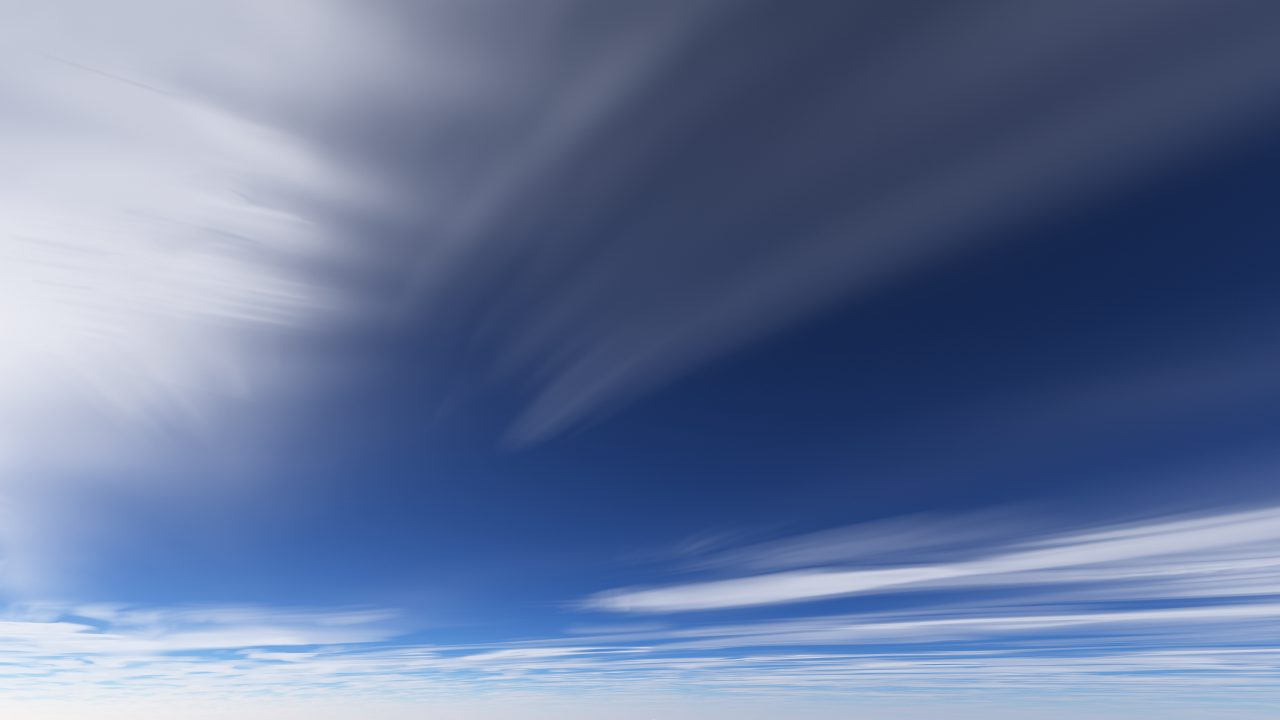
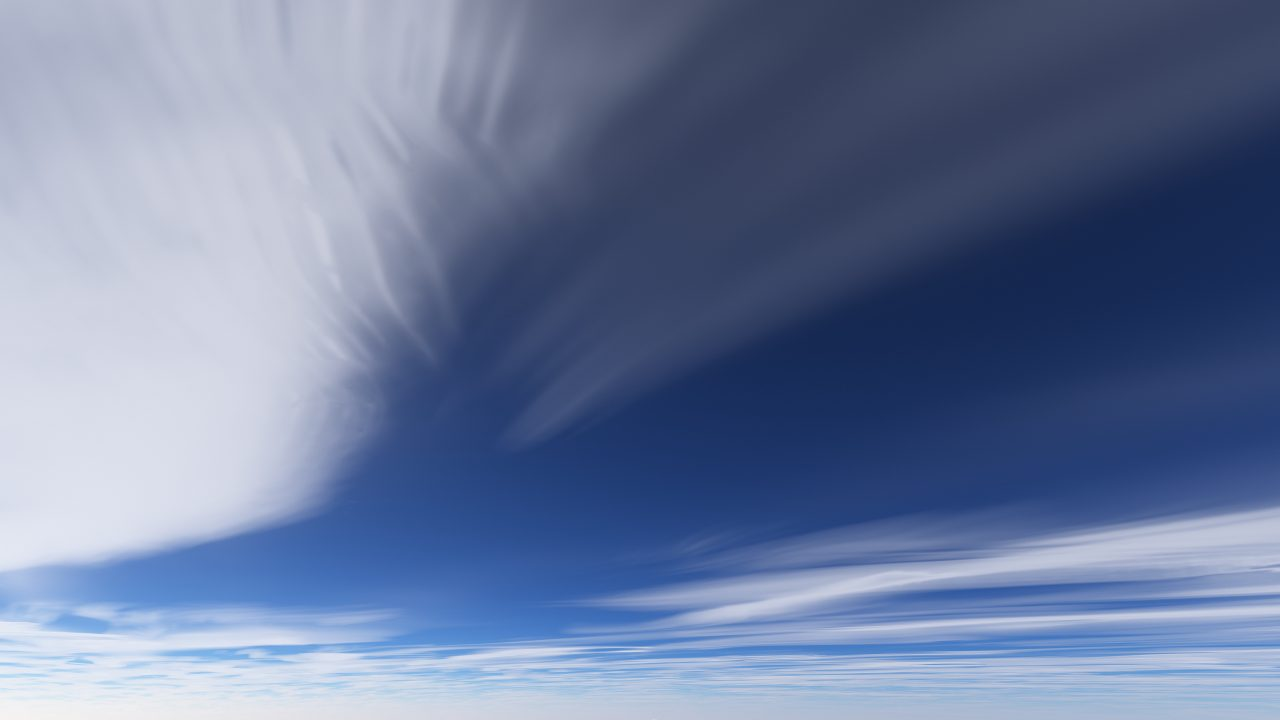
Cirrus round 18: a low sun's light through the sheet, one-way hooks, no edge dashes
- A low sun (from some 30 degrees down, a smoothstep of 1 / sin of its
  height) lights the ice through the depth on its way in, read over
  0.45 km a unit of that towards the sun (tauP), for the light scattered
  once and the share scattered many times, which then goes about evenly.
  Read through the local column, only the dense cores were lit by the
  light scattered many times (it grew as the cube of the depth), and dusk
  was a field of bright dashes and hooked heads.
- A tail's hook turns the same way as the tail, and no tighter than 2.5
  widths of the tail: S-shaped folds and liquid curls in wide plumes
  (c5, k3, m3, c3) are gone.
- The hairs shape the depth after the floor: before it, their cores alone
  passed it at a thin edge and stood as short bright dashes.
- Strands in a tail's core are 0.4 as strong as at its edges (ropes when
  looking up).
- Little cirrus is more large systems and fewer tails (fewer small
  spindles).
- cirrusDepth is one loop over the decks and takes a footprint; the
  sunward read uses it.
- docs: design.md (hooks, fibres, hairs, kinds, low sun), development.md
  (cost), the five docs pictures with cirrus.

Claude-Session: https://claude.ai/code/session_0164gFYhFQTZWxi11WF846xx

diff --git a/index.html b/index.html
@@ -878,7 +878,10 @@ float iceSystems(vec2 w, vec2 cells, vec2 len, vec2 wid, float head, float heads
     float veer = clamp(2.0 * bend + 0.8 * (r3.z - 0.5), -1.0, 1.0) * min(1.4 * C.y / L, 1.8) * (feather ? 0.4 : 1.0);
     // (A feather has no hook and turns less: its barbs reach far across,
     // and near the centre of a tight turn they were cut, as U-shaped holes.)
-    float hook = (fan ? 0.3 : feather ? 0.0 : 0.4 + 0.8 * sz) * (2.0 * r3.w - 1.0);
+    // The hook turns the same way as the tail (a fall streak curves one
+    // way, as the shear below it turns): hooked the other way, tails stood
+    // as S-shaped folds.
+    float hook = (fan ? 0.3 : feather ? 0.0 : 0.4 + 0.8 * sz) * (0.4 + 0.6 * r3.w) * (veer > 0.0 ? -1.0 : 1.0);
     float str = 0.5 * (0.25 + r2.y * r2.y) * (0.5 + 0.7 * smoothstep(gate.x, gate.y + 0.4, group));
     // The heads of the system along its spine.
     float nh = 1.0 + floor(r4.y * heads);
@@ -901,12 +904,17 @@ float iceSystems(vec2 w, vec2 cells, vec2 len, vec2 wid, float head, float heads
       float w1 = Lj * mix(wid.x, wid.y, r4.x) * (fan ? 2.0 : 1.0), w0 = (feather ? 1.0 : 0.4) * rj0;
       // (A feather is wider, but stays within the cells searched.)
       if (feather) w1 = min(1.6 * w1, 0.18 * C.y);
+      // The hook turns no tighter than some 2.5 widths of the tail where it
+      // ends: tighter, the outer strands on its inside folded back over
+      // the head (a liquid curl in wide plumes).
+      float hk = hook * (j == 0 ? 1.0 : 0.6 + 0.6 * rj.x), hkMax = lh / (2.5 * (w0 + (w1 - w0) * pow(min(lh / Lj, 1.0), 0.8)));
+      hk = clamp(hk, -hkMax, hkMax);
       // Quick reject: farther than the tail can reach (5 of its widths, 7 for
       // a feather, at 1.4 times its mean width: cut nearer, it drew a hard
       // curved line with a string of beads seen from just under the deck).
       float reach = Lj + lh + (feather ? 10.0 : 7.0) * (w1 + rj0);
       if (dot(dl, dl) > reach * reach) continue;
-      vec3 t = iceTailNear(w, hj, th + (j == 0 ? 0.0 : 0.15 * (rj.w - 0.5)), hook * (j == 0 ? 1.0 : 0.6 + 0.6 * rj.x), lh, veer, Lj);
+      vec3 t = iceTailNear(w, hj, th + (j == 0 ? 0.0 : 0.15 * (rj.w - 0.5)), hk, lh, veer, Lj);
       float T = t.x / Lj;
       // (None near the centre of a tight turn, where the nearest point of
       // the tail jumps: from just under the deck, a large system drew a hard
@@ -974,7 +982,10 @@ float iceSystems(vec2 w, vec2 cells, vec2 len, vec2 wid, float head, float heads
       // (The strands are a texture on the body, as strong as the tail is
       // fibrous there: everywhere at their full strength (round 16), the
       // forms were crisp lines with blue between.)
-      float fib = mix(1.0, st.x / 0.42, (0.3 + 0.55 * fcl) * (0.85 + 0.15 * smoothstep(0.5, 1.8, abs(u))));
+      // (Fainter in the core, under half a width: a dense tail is a soft
+      // bright body whose fibres show at its thin edges; as strong in the
+      // core, its strands stood as a braided rope seen from below.)
+      float fib = mix(1.0, st.x / 0.42, (0.3 + 0.55 * fcl) * (0.4 + 0.6 * smoothstep(0.3, 1.6, abs(u))));
       // Before the head the strands stick out each by its own way (the
       // front of a tuft is ragged, not round).
       float fr = iceValue(vec2(3.0 * u + 7.0 * rj.x, 1.5), seed + 115u);
@@ -2386,6 +2397,10 @@ const float CI_ROLL = 1.8;                 // the light scattered forward rolls 
 // clouds) shows through by that share as well, softened; a point (the
 // sun, the moon, a star) is spread into the glow round it instead.
 const float CI_FWD = 0.4;
+// The way a low sun's light runs through the shell to reach the ice (km
+// a unit of 1 / sin of its height), how wide that read is, and the phase of
+// the light that has spread through the sheet (see highCloud).
+const float CI_PATH = 0.45, CI_PATHW = 0.3, CI_DIFF = 0.08;
 // The ice (uIce, built at start by the ice shader): a tile of ICE_KM
 // (40.5 km) of four fields of ice, R: heads with tails, G: sheets and
 // streets, B: flocks, A: large systems. Each deck reads it in a frame of
@@ -2690,9 +2705,13 @@ vec2 ciFieldsOut = vec2(0.0);
 
 // The weights of the ice's four kinds (see ciDensity), by the bands and
 // fields, the shares of sheets (sr) and of flocks (sf), and how banded the
-// cirrus is.
+// cirrus is. Little cirrus (under 0.45) is more of the large systems and
+// fewer tails: a few large sweeps, as photographs of thin cirrus show;
+// with the tails' full weight, their dense cores alone passed the floor
+// (see ciDensity) and stood as many small spindles with sharp ends.
 vec4 ciKinds(float fields, float spread, float sr, float sf, float banded) {
-  return vec4((1.0 - 0.5 * sr) * mix(0.15 + 1.1 * spread, 0.05 + 0.75 * max(fields, 0.7 * spread), banded),
+  float few = 1.0 - smoothstep(0.1, 0.45, uCirrus);
+  return vec4(1.0 - 0.55 * few, 1.0, 1.0, 1.0 + 0.8 * few) * vec4((1.0 - 0.5 * sr) * mix(0.15 + 1.1 * spread, 0.05 + 0.75 * max(fields, 0.7 * spread), banded),
               (0.25 + 0.9 * sr) * smoothstep(0.15, 0.65, uCirrus) * mix(1.0, 0.4 + 0.8 * fields, banded), 0.5 * sf,
               (1.2 - 0.6 * sf) * (1.0 + 1.0 * smoothstep(0.15, 0.85, uCirrus)) * mix(1.0, 0.1 + 0.8 * fields, banded));
 }
@@ -2764,16 +2783,19 @@ float ciDensity(vec2 x, int k, vec2 f1, vec2 f2, bool fibres, bool lite, vec2 fi
   // ice less a floor: the weak tails and the thin edges go first, and
   // what is left fades in from nothing along its own fibres, with no
   // outline of its own. The floor is soft (a square at first), so that the
-  // depth grows smoothly from 0.
+  // depth grows smoothly from 0. The hairs shape the depth after the floor:
+  // laid on the ice before it, at a thin edge their cores alone passed it
+  // and stood as short bright dashes beyond the body (from 11 to 12 km,
+  // looking out at the edge of a plume).
   float c = uCirrus;
   float floor0 = 0.1 * pow(1.0 - c, 6.0) + 0.02 * (1.0 - m), knee = 0.5 * floor0 + 0.004;
   float gain = CI_TAU * (0.6 + 0.8 * c) * (0.3 + 0.7 * m);
-  float fine = ice * F, y = max(fine - floor0, 0.0);
+  float y = max(ice - floor0, 0.0);
   // Dense cores up to 1.5 times as deep (from 0.04 to 0.3 of ice above the
   // floor): a tuft has a dense white body under its feathered edges, as
   // photographs show; the edges, and so the cover, are as before. (Twice
   // as deep, large plumes near the deck stood as opaque white masses.)
-  float d = gain * y * y / (y + knee) * (1.0 + 0.5 * smoothstep(0.04, 0.3, y));
+  float d = gain * y * y / (y + knee) * (1.0 + 0.5 * smoothstep(0.04, 0.3, y)) * F;
   // The veil (cirrostratus), and in the bands a body of ice (from 0.2):
   // both have the veil's banded noise as the exponent of their depth, so
   // that a band is long and continuous with streaks along it, and tufts
@@ -2869,11 +2891,16 @@ float ciAge(vec2 x, int k, float foot) {
   return (v.x + 0.3 * 0.03) / (v.y + 0.03);
 }
 
-// The depth as the light of the sun feels it, the ice seen over `foot`
-// km: the mean over the shell.
+// The depth as the light of the sun feels it, the ice seen over the
+// footprint f1, f2 (km on the map): the mean over the shell. (One loop over
+// the decks: each call of ciDensity is a copy for the compiler.)
+float cirrusDepth(vec2 x, vec2 f1, vec2 f2) {
+  float s = 0.0;
+  for (int k = 0; k < CI_N(CI_LAYERS); k++) s += ciDensity(x, k, f1, f2, false, true, vec2(-1.0), 1.0);
+  return 0.5 * s;
+}
 float cirrusDepth(vec2 x, float foot) {
-  vec2 f1 = vec2(foot, 0.0), f2 = vec2(0.0, foot);
-  return 0.5 * (ciDensity(x, 0, f1, f2, false, true, vec2(-1.0), 1.0) + ciDensity(x, 1, f1, f2, false, true, vec2(-1.0), 1.0));
+  return cirrusDepth(x, vec2(foot, 0.0), vec2(0.0, foot));
 }
 
 // The depth of the thin cloud between a point under it and the light, as
@@ -3128,8 +3155,28 @@ void highCloud(vec3 o, vec3 d, float tmax, float extM, out float Th, out float t
   bool sameSide = (dot(d, up) < 0.0) == (mus > 0.0);
   // Near the eye, the march's own sum, and the flat reads behind it.
   float li = 1.0 / max(abs(mus), 0.15);
-  float once = mix(ciOnce(tauF, 0.6 * max(tauV, ciBody) * li, sameSide),
-                   onceN + exp(-tauN) * ciOnce(tauR, 0.6 * max(tauV, ciBody) * li, sameSide), wn);
+  // A low sun (from some 30 degrees down) runs along the decks: its light
+  // reaches the ice through the ice on its way in, CI_PATH km a unit of
+  // li towards the sun, not through the column above it alone. So the
+  // light it meets, and the share of it scattered more than once, which
+  // spreads through the sheet, follow the depth over that way (tauP, read
+  // over it, CI_PATHW across), smooth over km: at dusk a whole band glows,
+  // its thin parts with its dense ones. Read through the local column, only
+  // the dense cores were lit by the light scattered many times (it grew as
+  // the cube of the depth), and dusk stood as a field of bright dashes and
+  // hooked heads. The light so scattered goes about evenly (CI_DIFF, the
+  // isotropic phase).
+  float duskK = smoothstep(2.0, 6.0, li) * smoothstep(0.02, 0.3, uLightI), tauP = 0.0;
+  if (duskK > 0.0) {
+    vec2 sh = uLight.xz - up.xz * mus;
+    sh = length(sh) > 1e-6 ? normalize(sh) : vec2(1.0, 0.0);
+    float L = CI_PATH * li;
+    vec2 f1 = sh * (0.5 * L), f2 = vec2(-sh.y, sh.x) * CI_PATHW, xs = pc.xz + uDrift + sh * (0.5 * L);
+    tauP = 2.0 * cirrusDepth(xs, f1, f2);
+  }
+  float tsV = mix(max(tauV, bodyT), tauP, duskK);
+  float once = mix(ciOnce(tauF, 0.6 * tsV * li, sameSide),
+                   onceN + exp(-tauN) * ciOnce(tauR, 0.6 * tsV * li, sameSide), wn);
   // The narrow peak, a few degrees round the sun or the moon, is a round
   // glow (an aureole): it follows the sheet's depth over some 10 km, and
   // the ice just in front of the light only by 0.4 (0.1 at night: by
@@ -3145,14 +3192,14 @@ void highCloud(vec3 o, vec3 d, float tmax, float extM, out float Th, out float t
   // ice glows, and does not stand dark against thinner ice.
   // (At night the eye sees the moonlit sheet over some 10 km: nightK, below.)
   float dayK = smoothstep(0.02, 0.3, uLightI), nightK = 0.9 * (1.0 - dayK);
-  float many = 1.0 - exp(-0.3 * mix(tau, wideT, nightK)), spread = 0.15 * tauV / (tauV + 0.3);
+  float many = mix(1.0 - exp(-0.3 * mix(tau, wideT, nightK)), 1.0 - exp(-0.3 * tauP * li), duskK), spread = mix(0.15 * tauV / (tauV + 0.3), CI_DIFF, duskK);
   // The light scattered many times has mostly gone forward at each step: on
   // its way in it fades with a quarter of the depth that the light
   // scattered once feels (1 - g of ice). With the depth of the single
   // scattering, thick ice towards a low sun went darker than the sky behind
   // it.
-  float onceD = mix(ciOnce(tauF, 0.15 * max(tauV, ciBody) * li, sameSide),
-                    onceDN + exp(-tauN) * ciOnce(tauR, 0.15 * max(tauV, ciBody) * li, sameSide), wn);
+  float onceD = mix(ciOnce(tauF, 0.15 * tsV * li, sameSide),
+                    onceDN + exp(-tauN) * ciOnce(tauR, 0.15 * tsV * li, sameSide), wn);
   // Light from below: the low clouds, lit by the same sun, add to the sea
   // that the mean sky already holds. Forward scattering sends more of it
   // to an eye below the sheet.

diff --git a/docs/design.md b/docs/design.md
@@ -848,10 +848,10 @@ channel, which the scene mixes by the cirrus's map (below):
   or, in 30 % of them, along it (ribs off a spine, cirrus vertebratus).
   Each tail is 4 to 24 km long, even in the logarithm (many short, a few
   long), and is two arcs (`iceTailNear`, `iceArcNear`): the ice leaves the
-  head turned by up to 0.5 to 1.4 rad (more for a larger system) and comes
-  round to the flow over some 0.1 of the tail (a comma, the hook of cirrus
-  uncinus), then turns by its own amount over the rest, as it falls into
-  wind of another way: the turn comes from noise over the tile (a group's
+  head turned by 0.4 to 1.2 rad at most (more for a larger system) and
+  comes round to the flow over some 0.1 of the tail (a comma, the hook of
+  cirrus uncinus), then turns by its own amount over the rest, as it
+  falls into wind of another way: the turn comes from noise over the tile (a group's
   tails run and curve alike, as in photographs of mares' tails), less for
   a long tail. Where the two arcs are nearly as near, the tail's
   coordinates blend from the one to the other, and near the centre of a
@@ -863,15 +863,23 @@ channel, which the scene mixes by the cirrus's map (below):
   body: a Gaussian of its width and a faint one some 1.6 times as wide
   (0.2 of it), so that the thin edge fades into the blue instead of
   ending as lines. It is strands all along (`iceStrands`, below), from
-  the head on, as strong as the ice is fibrous there (above), 2 to 9 to
-  its half width (strands of very different widths from tail to tail).
+  the head on, as strong as the ice is fibrous there (above), and in the
+  core (under half a width) 0.4 as strong as at the edges, so that a dense
+  tail is a soft bright body whose fibres show at its thin edges (as
+  strong in the core, its strands stood as a braided rope seen from
+  below); 2 to 9 to its half width (strands of very different widths from tail to tail).
   The head is the start of
   the tail, dense along its hook, made of ragged tufts (noise at a third,
   an eighth and a twentieth of its size, cut: knots with blue between),
   and ahead of it each strand sticks out by its own way, so that its front
   is frayed, not round. The tail fades to nothing before 4.5 of its widths
   (cut there, a strong tail drew a hard edge seen from near the deck).
-  Hooks turn by 0.4 to 1.2 rad (0.5 to 1.4 in round 16).
+  The hook turns the same way as the rest of the tail (a fall streak
+  curves one way, as the shear below it turns; hooked the other way, as
+  up to round 17, tails stood as S-shaped folds), by 0.4 to 1 of its
+  most, and never tighter than 2.5 widths of the tail where the hook
+  ends: tighter, the outer strands on its inside folded back over the
+  head, a liquid curl in wide plumes (round 17's c5 and k3).
 - **Feathers** (in 6 % of the tails' systems): wide plumes (up to 1.6
   times a tail's width) whose fine barbs leave the spine aslant and sweep
   back by some 40 to 60 degrees, curving with the distance out, on one
@@ -1055,9 +1063,10 @@ the ice was built with:
   gradient and its opposite then add up, so the mipmaps average the way
   over a footprint, and its length says how much the ice runs one way
   (near 1 along a trail, near 0 in a round head).
-- **Strength.** Thin ice breaks up into hairs: the scene takes its floor
-  off after the hairs, so the edge of a tuft dissolves into separate
-  hairs; dense cores (`1 - exp(-7 ice)` from 0.25 to 0.75) keep only 0.15
+- **Strength.** Thin ice breaks up into hairs: they shape the depth the
+  scene makes of the ice after its floor is taken off (taken off after
+  them, as up to round 17, at a thin edge only the hairs' cores passed the
+  floor, and stood as short bright dashes beyond the body); dense cores (`1 - exp(-7 ice)` from 0.25 to 0.75) keep only 0.15
   of them: a tuft has a soft, dense white core that dissolves into hairs
   at its edges.
 - **Where it is read.** Far off, once per deck at the place read, with a
@@ -1095,7 +1104,11 @@ on the map.
   by B and A: tails everywhere (fewer where sheets are many); sheets and
   streets, which come in from `c` = 0.15 to 0.65 (`smoothstep`), so that
   little cirrus is a few tails and more is streets and sheets; flocks or
-  large systems, these from 1 at little cirrus to twice at 0.85. The
+  large systems, these from 1 at little cirrus to twice at 0.85. Under
+  `c` = 0.45 (a `smoothstep` from 0.1) the tails weigh down to 0.45 and
+  the large systems up to 1.8: little cirrus is a few large sweeps (with
+  the tails' full weight, only their dense cores passed the floor and
+  stood as many small spindles with sharp ends). The
   faint trace under the sheets is taken off (0.035 of ice) up to `c` =
   0.6, and less up to 0.95, where the sheets become a streaky veil.
 - **The ice** is read in each deck's frame (`ciTile`): the upper deck
@@ -1242,6 +1255,22 @@ on the map.
   skylight from the multiple-scattering table (less the share `CI_FWD`,
   below), and light from the low clouds below, at the mean distance of
   the decks seen.
+- **A low sun** (`duskK`, a `smoothstep` of `li`, 1 over the sine of the
+  sun's height where it is capped at 0.15, from 2 to 6: the sun from some
+  30 degrees down; and by day only) runs along the decks: its light
+  reaches the ice through the ice on its way in, not through the column
+  above it alone. The depth it meets, for the light scattered once and the
+  light scattered many times, is read over the way towards the sun
+  (`tauP`: both decks, `CI_PATH` = 0.45 km a unit of `li`, some 3 km at
+  dusk, `CI_PATHW` = 0.3 km across, centred half of it on), and the share
+  scattered many times is `1 - exp(-0.3 li tauP)`, as the light that has
+  gone that way in, with an even phase (`CI_DIFF` = 0.08, isotropic):
+  light spreads through the sheet over km, so a whole band glows at
+  dusk, its thin parts with its dense ones. Read through the local
+  column (as up to round 17), the light scattered many times grew as the
+  cube of the depth: only the dense cores were lit, and dusk stood as a
+  field of bright dashes and hooked heads on a grey sky. The march near
+  the eye keeps its own light, step by step.
 - **At night** (`nightK`, up to 0.9 as the light goes over from the sun to
   the moon: no switch, `0.9 (1 - smoothstep(0.02, 0.3, uLightI))`; the
   halo blends between its day and night strengths by the same) the light

diff --git a/docs/development.md b/docs/development.md
@@ -255,7 +255,16 @@ frame took 8.76 to 8.79 ms at the default view (round 16: 8.79 to
 8.83), 9.95 to 10.01 ms just under the shell (round 16: 10.36 to 10.43,
 round 15: 9.98 to 10.05) and, at 2560 x 1440 at the cruise view
 (`date=319&at=150,90`), 15.61 to 15.67 ms (round 16: 15.57 to 15.62,
-main 13.70 to 13.71). The machine's times drift by several tenths
+main 13.70 to 13.71). Round 18 (the depth a low sun's light meets read
+towards the sun: one more `lite` read of both decks, where the sun is
+under some 30 degrees), measured the same day against round 17 and main
+in the same hour, two runs each: the first picture with `cirrus=0.5`
+4.93 to 4.97 s (round 17: 5.00 to 5.01, main 3.46); the frame 8.93 to
+8.94 ms at the default view (8.82 to 8.84; main 7.78), 10.14 to 10.15 ms
+under the shell (10.02 to 10.06; main 5.00 to 5.07), 15.78 to 15.82 ms
+at the cruise view at 2560 x 1440 (15.66 to 15.70; main 13.72 to
+13.77), and at dusk 7.50 to 7.52 ms from the ground and 9.31 to 9.34 ms
+from 11 km (7.34 to 7.37 and 9.17 to 9.21). The machine's times drift by several tenths
 from run to run and with other work on the GPU. The cirrus's loops are
 kept from being unrolled (`CI_N`; unrolled, the driver took some 0.6 s
 more to finish the scene's program). Each call of `ciDensity` is a copy,
